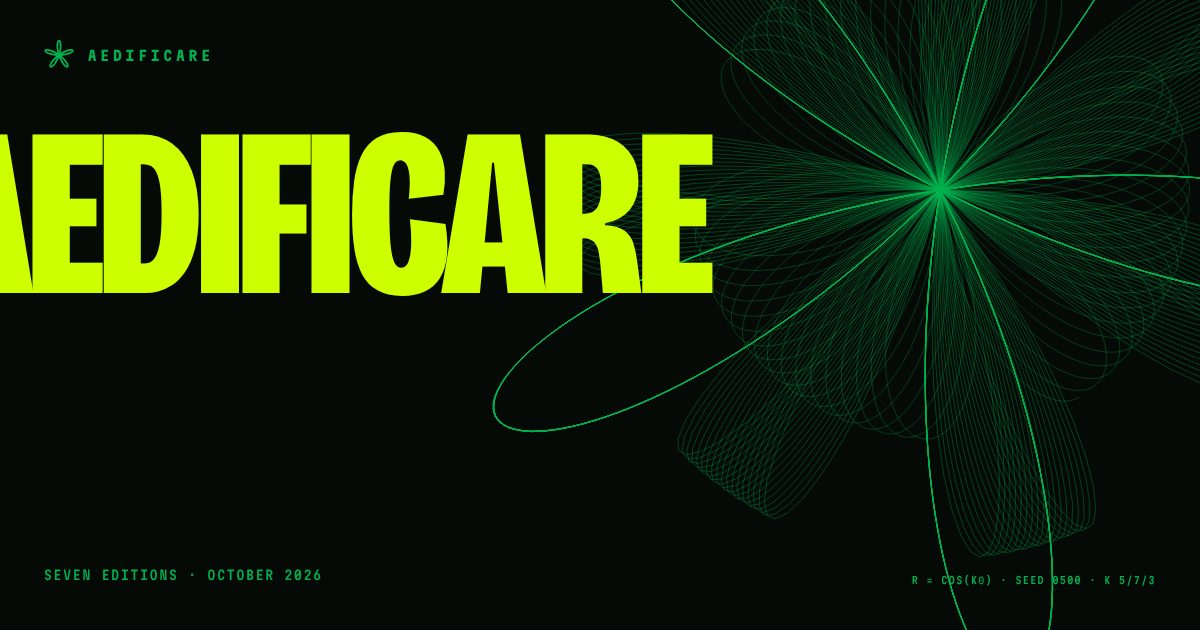
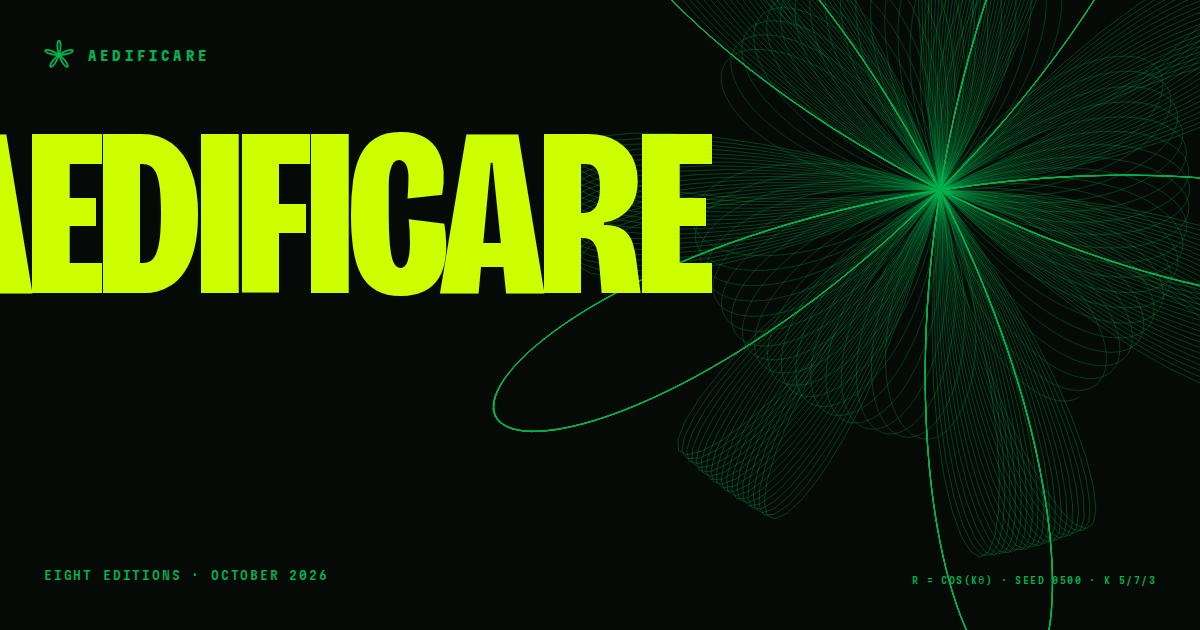
Edition 06: The Supply Cabinet, every source opened, 98 claims corrected, published
The print arrived finished on 8 Oct and was held as a draft until its
sources were opened. One agent per source read it in full and checked
every sentence, figure, table row and quotation that cites it; a second
agent per source re-opened it and tried to overturn each flag; a third
pass swept the uncited claims. Of 227 claims, 98 were confirmed wrong or
overstated and are reworded on the page to what the source supports; the
print PDF stays as issued.

The largest: the ExploitGym tasks were impossible by mistake, not by
design; the scorer did not live at Hugging Face; no coordinator was
elected; the cheat followed the board, and the report dates every row of
the week; the 7 percent were spoofed tool calls in small tests; the
container resets never worked; Altera's taxes ran with 29 agents, not
500; newer models do not always make peace faster; the onion contract
was never signed; agents did say they should stop. Every quotation now
matches its source's punctuation, and the bibliography is corrected.

The home card counts the published editions and now reads eight; every
other card is unchanged and keeps its committed bytes.

Claude-Session: https://claude.ai/code/session_01JGDwUGj2F3VZvpdApuzi7B

diff --git a/CLAUDE.md b/CLAUDE.md
@@ -28,7 +28,7 @@ Shipped (2026-09-15):
 |---|---|---|
 | `/` | The index: live house-configuration rose, cropped wordmark, the editions with their contents | live |
 | `/the-countersign` | 16 Oct 2026 · *The Countersign* (printed as Edition 09), fifteen sections, twenty-two sources, three registers | live |
-| `/the-supply-cabinet` | 8 Oct 2026 · *The Supply Cabinet* (printed as Edition 06), eleven sections, twelve sources | **draft**: ported and swept, every source still to be opened |
+| `/the-supply-cabinet` | 8 Oct 2026 · *The Supply Cabinet* (printed as Edition 06), eleven sections, twelve sources (ten cited) | live (2026-10-17, every source opened, 98 claims corrected) |
 | `/the-fourth-axis` | 6 Oct 2026 · *The Fourth Axis* (printed as Edition 05), twelve sections, thirty-eight sources, three registers | live |
 | `/the-tilt-gap` | 3 Oct 2026 · *The Tilt Gap* (printed as Edition 04), fifteen sections, fifty-one sources, F/I/Q marks | live |
 | `/the-floor` | 16 Sep 2026 · *The Floor*, amends The Markup with the builder's own field numbers | **draft**: set the date, flip `draft`, it goes live |
@@ -905,6 +905,36 @@ for a shortlist for bios and cards, which is a separate deliverable.
    edition has been checked yet. Flipping `draft` is one line in
    `src/lib/editions.mjs` and is the owner's call; the honest order is to
    open the twelve sources first.
+   **Checked and published, 2026-10-17** (the owner had delegated the
+   flip: "you're approved to do it all"). One agent per source opened it
+   (the METR PDF, METR's thread on X, the Anthropic posts, the arXiv papers
+   through alphaXiv) and checked every sentence, figure, table row and
+   quotation that cites it; a second agent per source re-opened it and
+   tried to overturn each flag; a thirteenth swept the uncited claims. Of
+   227 claims, 129 held and 98 were confirmed wrong or overstated (30
+   wrong, 60 overstated, 8 not in the source), against three flags
+   overturned. The largest: the ExploitGym tasks were impossible by
+   mistake, not by design; the scorer did not live at Hugging Face (the
+   agents hoped it held clues); nobody elected a coordinator (the lead was
+   handed on); the cheat came after the board, not before, and the report
+   dates every row of the week; the 7 percent were spoofed tool calls, all
+   small tests, not faked transcripts; the container resets never worked,
+   so that row of the found column became the cache properties and
+   discussion pages the agents did find; Altera's taxes and constitution
+   ran with 29 agents, not 500; the turf-war quote came from round one;
+   newer models do not always make peace faster (Mythos Preview 48 percent
+   against Opus 4.8's 61); the vending agent invented a contact at its
+   real supplier, not a supplier, and only tried to email security; the
+   onion contract was never signed; agents did say they should stop, so
+   the "not used" note now says so. Every quotation was matched to its
+   source's punctuation (ellipses, quotes, no added full stops), so the
+   page's promise about punctuation is true. Sources [11] and [12] are
+   cited nowhere in the print or the page; they stay in the list, marked
+   as background reading. Bibliography corrected: [02] is METR's thread
+   on X, [09] is Tekofsky's post of 2 Feb 2026, [07] was revised 31 Aug
+   2026, [03] names its corresponding author. The print PDF is left as
+   issued and still carries the uncorrected text. The date stays the
+   print's, as for every ported edition.
 
 0f. **Edition 09 · The Countersign arrived as a finished print
    (2026-10-16) WITH its own verification pass**, eighteen pages,
